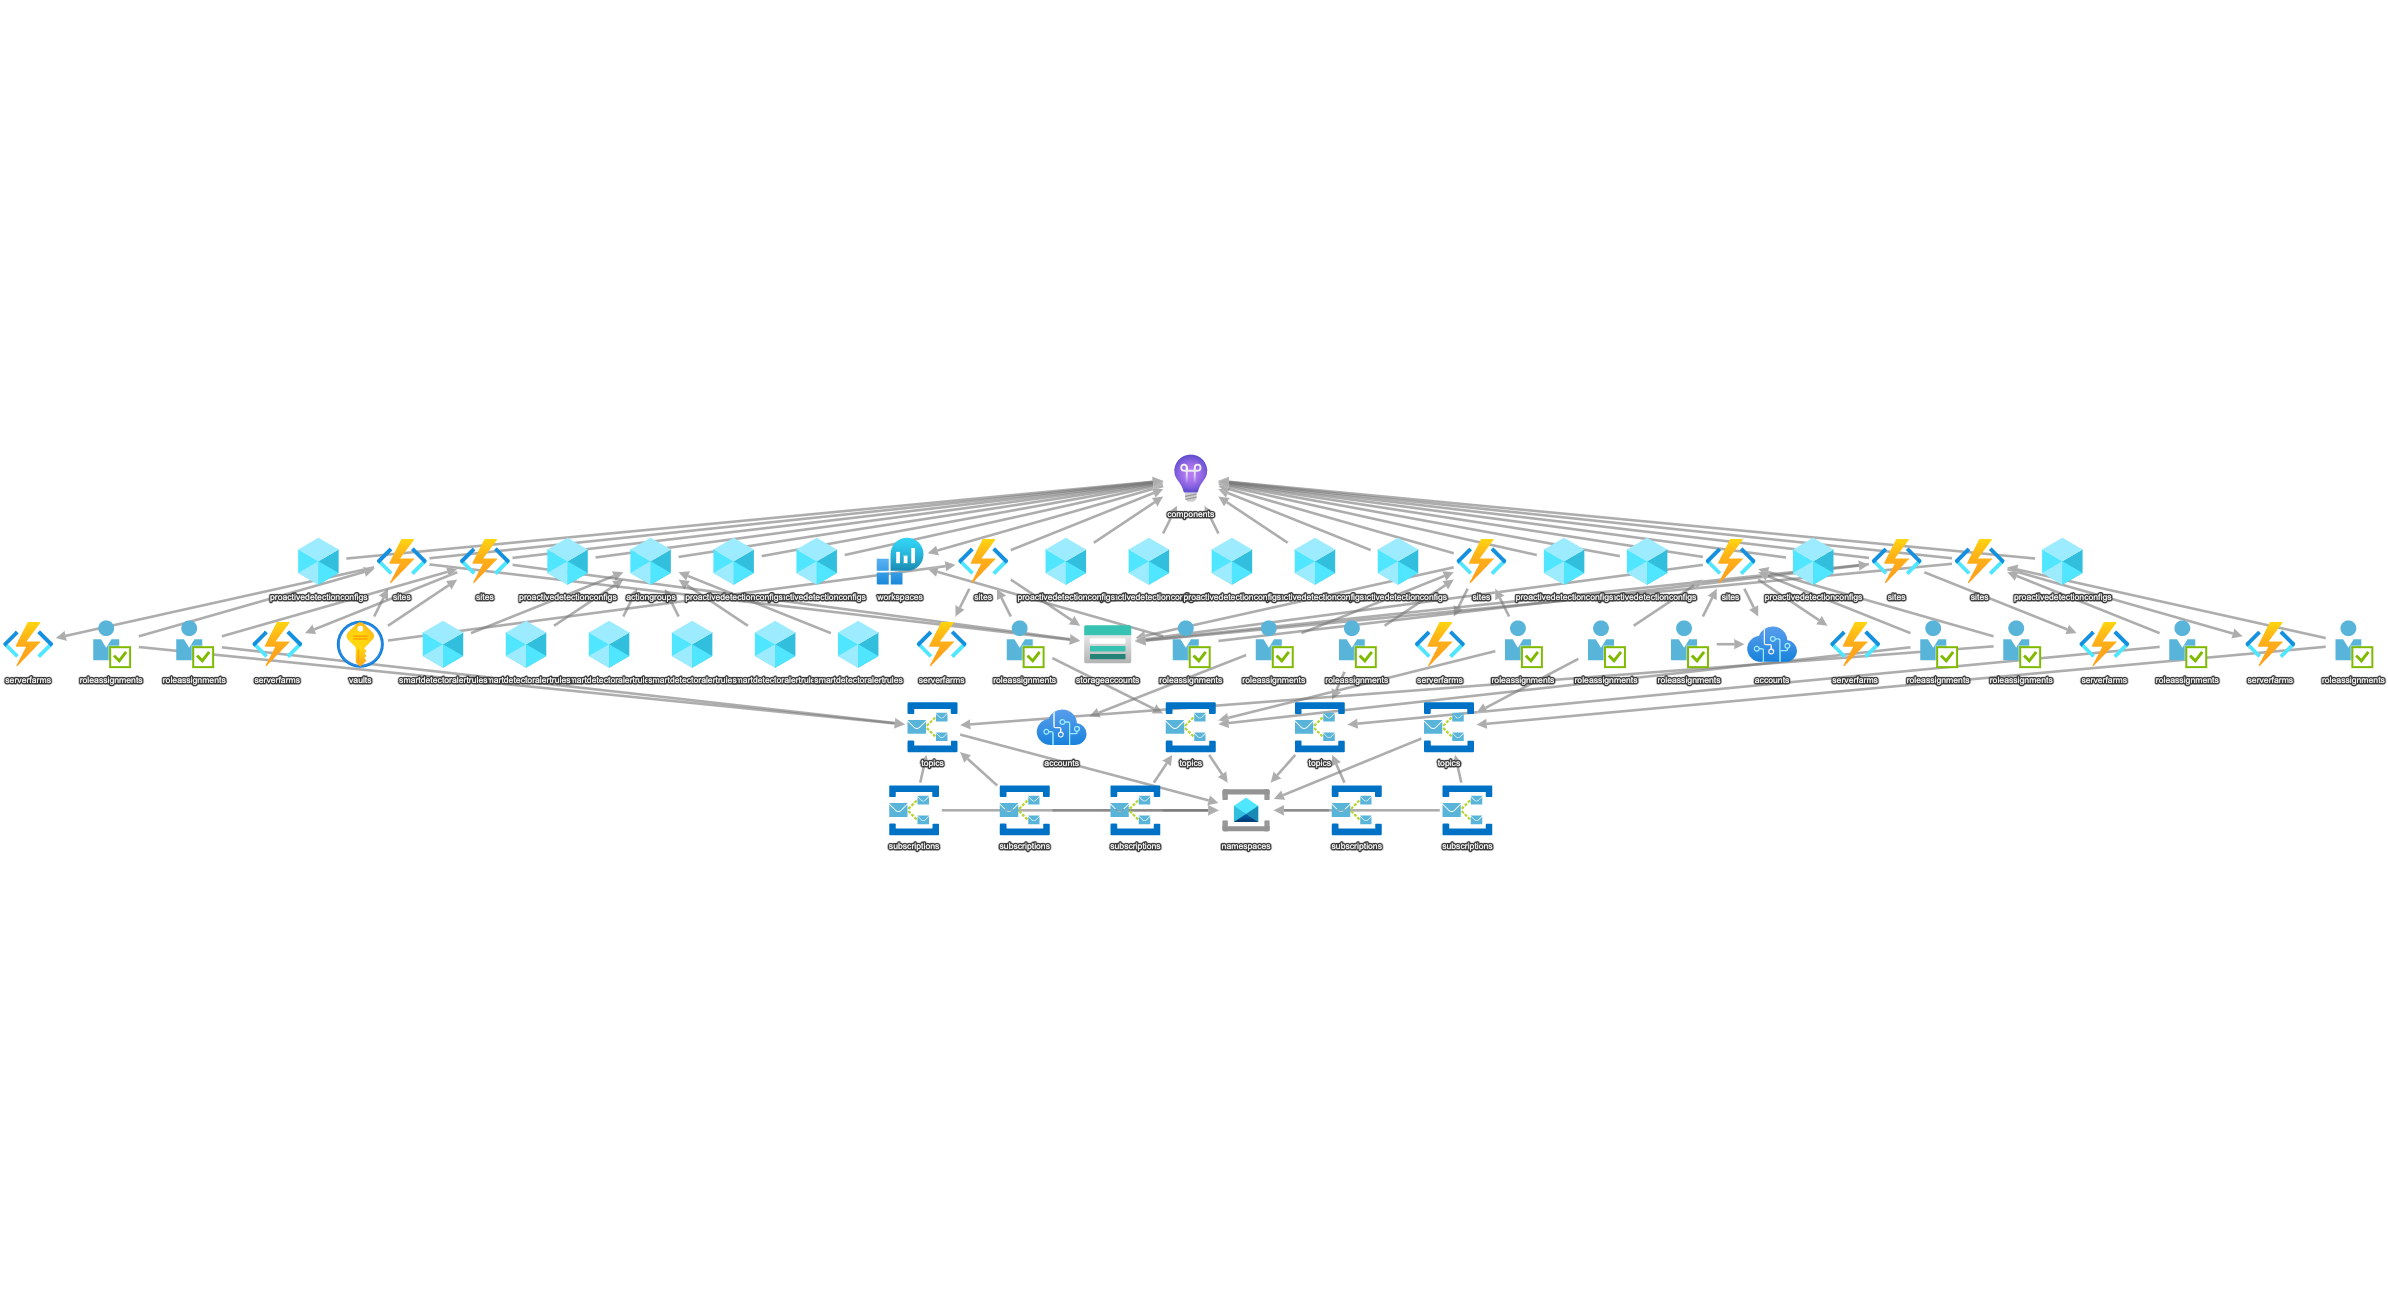
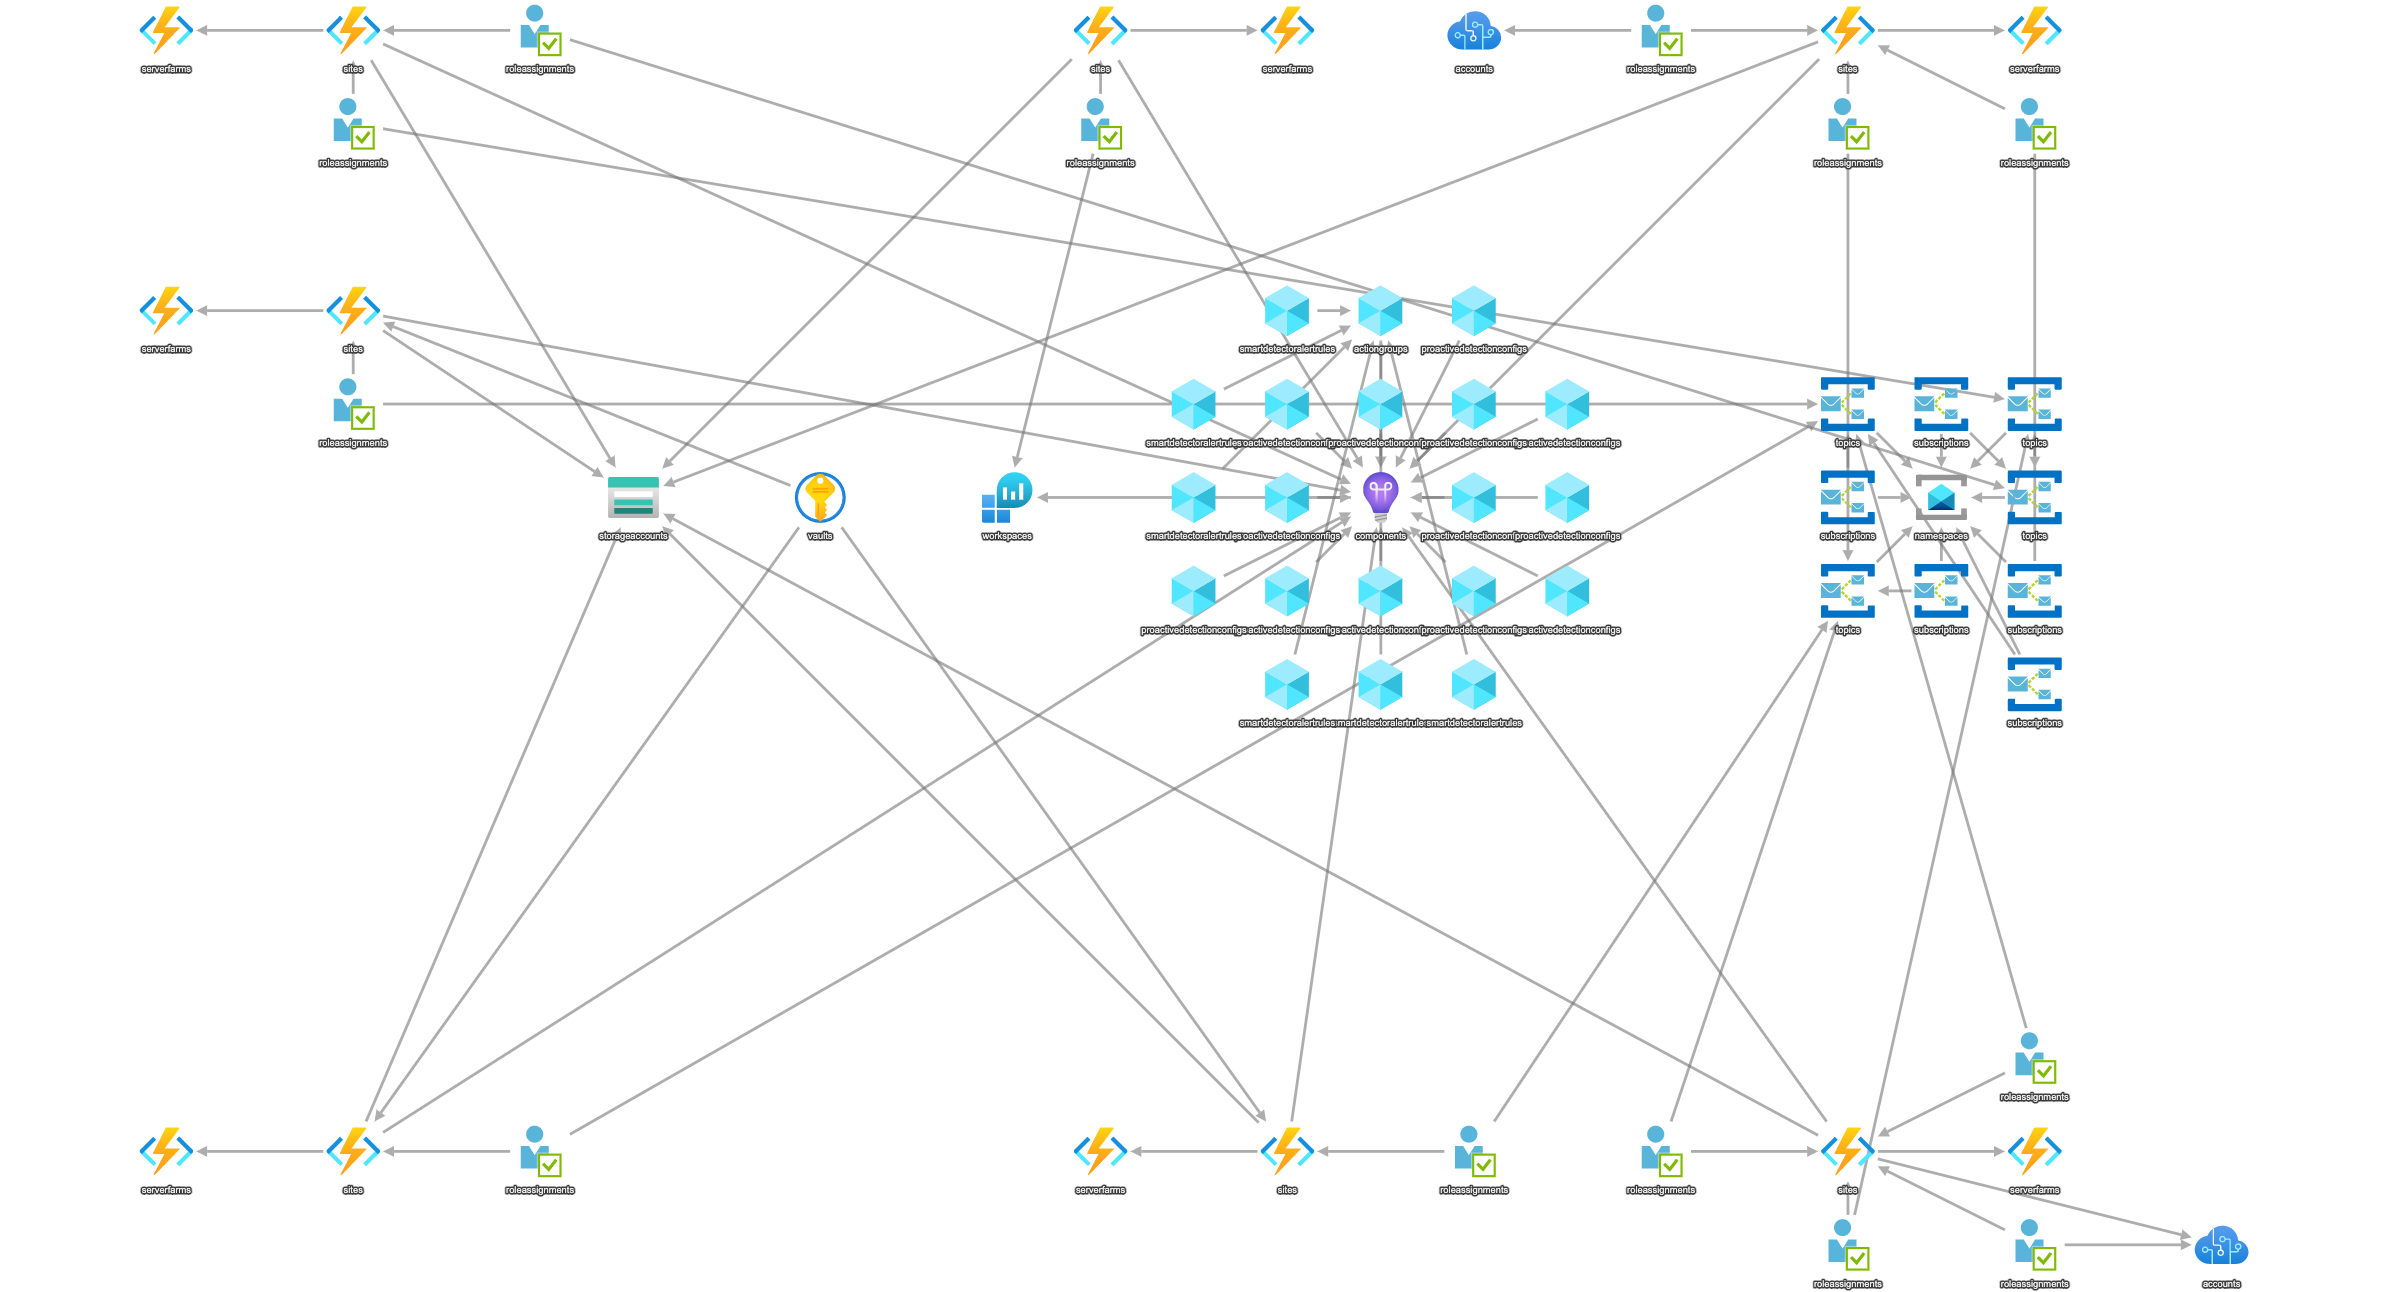
update readme

diff --git a/README.md b/README.md
@@ -92,4 +92,4 @@ Legend:
 
 ### Resources to be created by this ARM template
 
-![azure_resources](img/rsgweprivatememesfinder.png)
+![azure_resources](img/template_visualization2.png)
